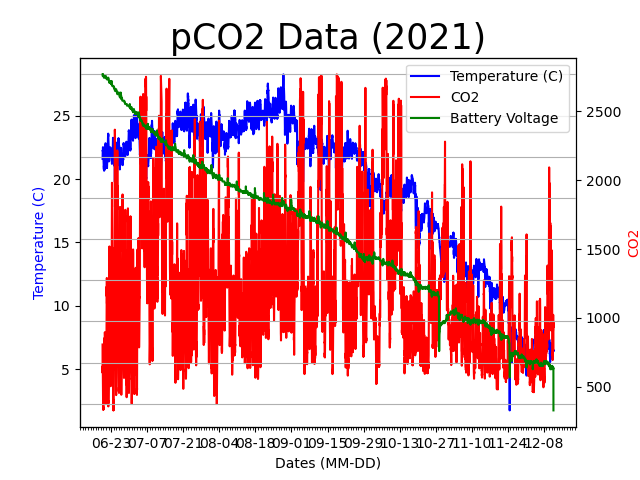
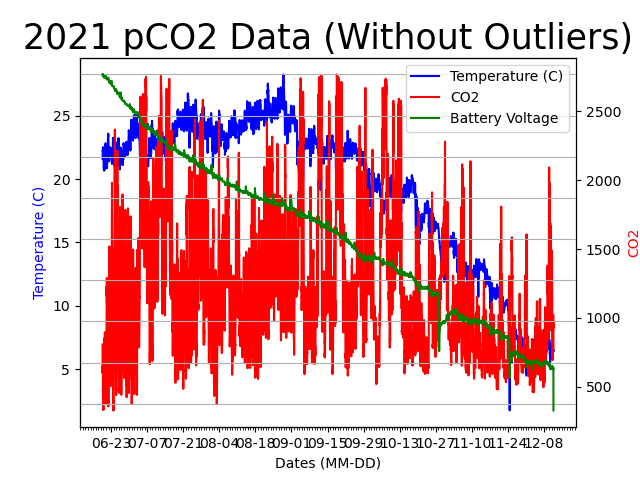
cleaned up formatting

Changed region(s): [[0.0312, 0.0312, 1.0, 0.125]]

diff --git a/pCO2_data/Test_1_ Graph.py b/pCO2_data/Test_1_ Graph.py
@@ -1,3 +1,4 @@
+from runpy import _TempModule
 import pandas as pd
 import plotly.express as px
 import matplotlib.pyplot as plt
@@ -10,10 +11,10 @@ import matplotlib.dates as mdates
 from scipy import stats
 
 # Used to hold data after outliers are removed
-x = None
-ty = None
-cy = None
-by = None
+x = None        # Dates
+ty = None       # Temperature
+cy = None       # CO2
+by = None       # Battery Voltage
 
 # Used to hold data from csv file  
 xData = []      # Dates
@@ -21,16 +22,15 @@ tyData = []     # Temperature
 cyData = []     # CO2
 byData = []     # Battery Voltage
 
+# Used in taking out empty data values
 numofLines = 0
 
+# Used in Year Day conversion
 ordinalDate = []
 timeDate = []
 completeDate = []
 
-
-
-
-
+# Takes out empty data values in data set
 with open('C:\\Users\\isabe\\Source\\Repos\\icyeung\\pCO2-DataTrue\\pCO2_data\\completeData.csv','r') as csvfile:
     lines = csv.reader(csvfile, delimiter='\t')
     for row in lines:
@@ -46,20 +46,25 @@ with open('C:\\Users\\isabe\\Source\\Repos\\icyeung\\pCO2-DataTrue\\pCO2_data\\c
         elif numofLines == 0:
             numofLines += 1
 
-
-print("Original Data after empty values are taken out: ")
-print(len(xData))
+# Displays number of data points before outliers are taken out
+print("Original data after empty values are taken out: ", len(xData))
 
 # Extracts outliers from dataframe
-# If anr value in the 3 colums is a outlier, removes entire row
+# If any value in the 3 colums is an outlier, removes entire row
 completeRowData = pd.DataFrame({"Date": xData, "Temp": tyData, "CO2": cyData, "Battery": byData})
 completeRowData = completeRowData[(np.abs(stats.zscore(completeRowData)) < 3).all(axis = 1)]
 
+# Displays z-score of dataset
 print(stats.zscore(completeRowData))
 
-# Converts Year Day Column to calendar day and time
+# Displays number of data points after outliers are removed
+print("Original data after outliers are removed: ", len(completeRowData.get("Date")))
 
-# Extracts time in HH:MM:SS format from date in Year Day
+# Display number of outliers
+print("Number of outliers: ", (len(xData) - (len(completeRowData.get("Date")))))
+
+# Converts Year Day Column to calendar day and time
+# Extracts time in HH:MM:SS format from date in Year Day column
 def timeConverter (date):
     time = ""
 
@@ -86,120 +91,60 @@ for date in xData:
     dt = datetime.datetime.combine(datetime.date.fromordinal(math.trunc(date)), timeConverter(date))
     completeDate.append(dt)
 
+# Graph plotter function
+# Provide date, temperature, CO2, and battery data
+# Provide name of graph in string format 
+def grapher(time, tempC, CO2, batteryV, name):
+    x = time
+    ty = tempC
+    cy = CO2
+    by = batteryV
 
-# Allows for more than one set of data to be plotted
+    fig, ax1 = plt.subplots()
+    p1 = ax1.plot(x, ty, color = 'b', linestyle = 'solid', label = 'Temperature (C)')
 
+    # Sets x-axis as Dates
+    date_form = DateFormatter("%m-%d")
+    ax1.xaxis.set_major_formatter(date_form)
+    ax1.xaxis.set_major_locator(mdates.WeekdayLocator(interval = 2))     # Displays x-axis label every 14 days
+    ax1.xaxis.set_minor_locator(mdates.DayLocator(interval = 1))       # Indicates each day (without label) on x-axis
 
-fig1 = plt.figure(1)
-'''
-# Sets the graph layout colors and style
-plt.style.use('default')
-'''
+    # Sets axis labels and changes font color of "Temperature (C)" label for easy viewing
+    ax1.set_ylabel("Temperature (C)")
+    ax1.set_xlabel("Dates (MM-DD)")
+    ax1.yaxis.label.set_color(p1[0].get_color())
 
-# Temperature plot
-x = completeRowData.get("Date")     # Plots Dates
-ty = completeRowData.get("Temp")       # Plots Temp
+    # CO2 plot
+    ax2 = ax1.twinx()
+    p2 = ax2.plot(x, cy, color = 'r', linestyle = 'solid', label = "CO2")
+    ax2.set_ylabel("CO2")
+    ax2.yaxis.label.set_color(p2[0].get_color())
 
+    # Battery Voltage plot
+    ax3 = ax1.twinx()
+    p3 = ax3.plot(x, by, color = 'g', linestyle = 'solid', label = "Battery Voltage")
+    ax3.set_ylabel("Battery Voltage")
+    ax3.spines["right"].set_position(("outward", 60))
+    ax3.yaxis.label.set_color(p3[0].get_color())
 
-fig, ax1 = plt.subplots()
-p1 = ax1.plot(x, ty, color = 'b', linestyle = 'solid', label = "Temperature (C)")
+    # Sets title, adds a grid, and shows legend
+    plt.title(name, fontsize = 25)
+    plt.grid(True)
+    plt.legend(handles=p1+p2+p3)
 
-# Sets x-axis as Dates
-date_form = DateFormatter("%m-%d")
-ax1.xaxis.set_major_formatter(date_form)
+    return plt
 
-ax1.xaxis.set_major_locator(mdates.WeekdayLocator(interval = 2))     # Displays x-axis label every 14 days
+# Plots graph without outliers
+grapher(completeRowData.get("Date"), completeRowData.get("Temp"), completeRowData.get("CO2"), completeRowData.get("Battery"), "2021 pCO2 Data (Without Outliers)")
 
-ax1.xaxis.set_minor_locator(mdates.DayLocator(interval = 1))       # Indicates each day (without label) on x-axis
-
-# Sets axis labels and changes font color for easy viewing
-ax1.set_ylabel("Temperature (C)")
-ax1.set_xlabel("Dates (MM-DD)")
-ax1.yaxis.label.set_color(p1[0].get_color())
-
-
-# CO2 plot
-ax2 = ax1.twinx()
-cy = completeRowData.get("CO2")       # Plots CO2 
-p2 = ax2.plot(x, cy, color = 'r', linestyle = 'solid', label = "CO2")
-ax2.set_ylabel("CO2")
-ax2.yaxis.label.set_color(p2[0].get_color())
-
-# Battery Voltage plot
-by = completeRowData.get("Battery")       # Plots Battery
-ax3 = ax1.twinx()
-p3 = ax3.plot(x, by, color = 'g', linestyle = 'solid', label = "Battery Voltage")
-ax3.set_ylabel("Battery Voltage")
-ax3.spines["right"].set_position(("outward", 60))
-ax3.yaxis.label.set_color(p3[0].get_color())
-
- 
-# Sets title, adds a grid, and shows legend
-plt.title('pCO2 Data (2021)', fontsize = 25)
-plt.grid(True)
-plt.legend(handles=p1+p2+p3)
-
-
-print("Original Data after outliers are taken out: ")
-print(len(x))
-
-# Displays figure
-#plt.show()
-
-# Saves graph to specified name in pCO2_data folder
+# Saves without outliers graph to specified name in pCO2_data folder
 plt.savefig('pCO2_2021_Graph_No_Outliers.png')
 
+# Plots graph with outliers
+grapher(xData, tyData, cyData, byData, "2021 pCO2 Data (With Outliers)")
 
+# Saves without outliers graph to specified name in pCO2_data folder
+plt.savefig('pCO2_2021_Graph_With_Outliers.png')
 
-# Plots with outliers
-
-fig2 = plt.figure(2)
-
-# Temperature plot
-x = xData     # Plots Dates
-ty = tyData       # Plots Temp
-
-fig, ax1 = plt.subplots()
-p1 = ax1.plot(x, ty, color = 'b', linestyle = 'solid', label = "Temperature (C)")
-
-# Sets x-axis as Dates
-date_form = DateFormatter("%m-%d")
-ax1.xaxis.set_major_formatter(date_form)
-
-ax1.xaxis.set_major_locator(mdates.WeekdayLocator(interval = 2))     # Displays x-axis label every 14 days
-
-ax1.xaxis.set_minor_locator(mdates.DayLocator(interval = 1))       # Indicates each day (without label) on x-axis
-
-# Sets axis labels and changes font color for easy viewing
-ax1.set_ylabel("Temperature (C)")
-ax1.set_xlabel("Dates (MM-DD)")
-ax1.yaxis.label.set_color(p1[0].get_color())
-
-
-# CO2 plot
-ax2 = ax1.twinx()
-cy = cyData       # Plots CO2 
-p2 = ax2.plot(x, cy, color = 'r', linestyle = 'solid', label = "CO2")
-ax2.set_ylabel("CO2")
-ax2.yaxis.label.set_color(p2[0].get_color())
-
-# Battery Voltage plot
-by = byData       # Plots Battery
-ax3 = ax1.twinx()
-p3 = ax3.plot(x, by, color = 'g', linestyle = 'solid', label = "Battery Voltage")
-ax3.set_ylabel("Battery Voltage")
-ax3.spines["right"].set_position(("outward", 60))
-ax3.yaxis.label.set_color(p3[0].get_color())
-
- 
-# Sets title, adds a grid, and shows legend
-plt.title('pCO2 Data (2021)', fontsize = 25)
-plt.grid(True)
-plt.legend(handles=p1+p2+p3)
-
-
-print("Original Data after outliers are taken out: ")
-print(len(x))
-
-# Displays figure
+# Displays figures
 plt.show()
